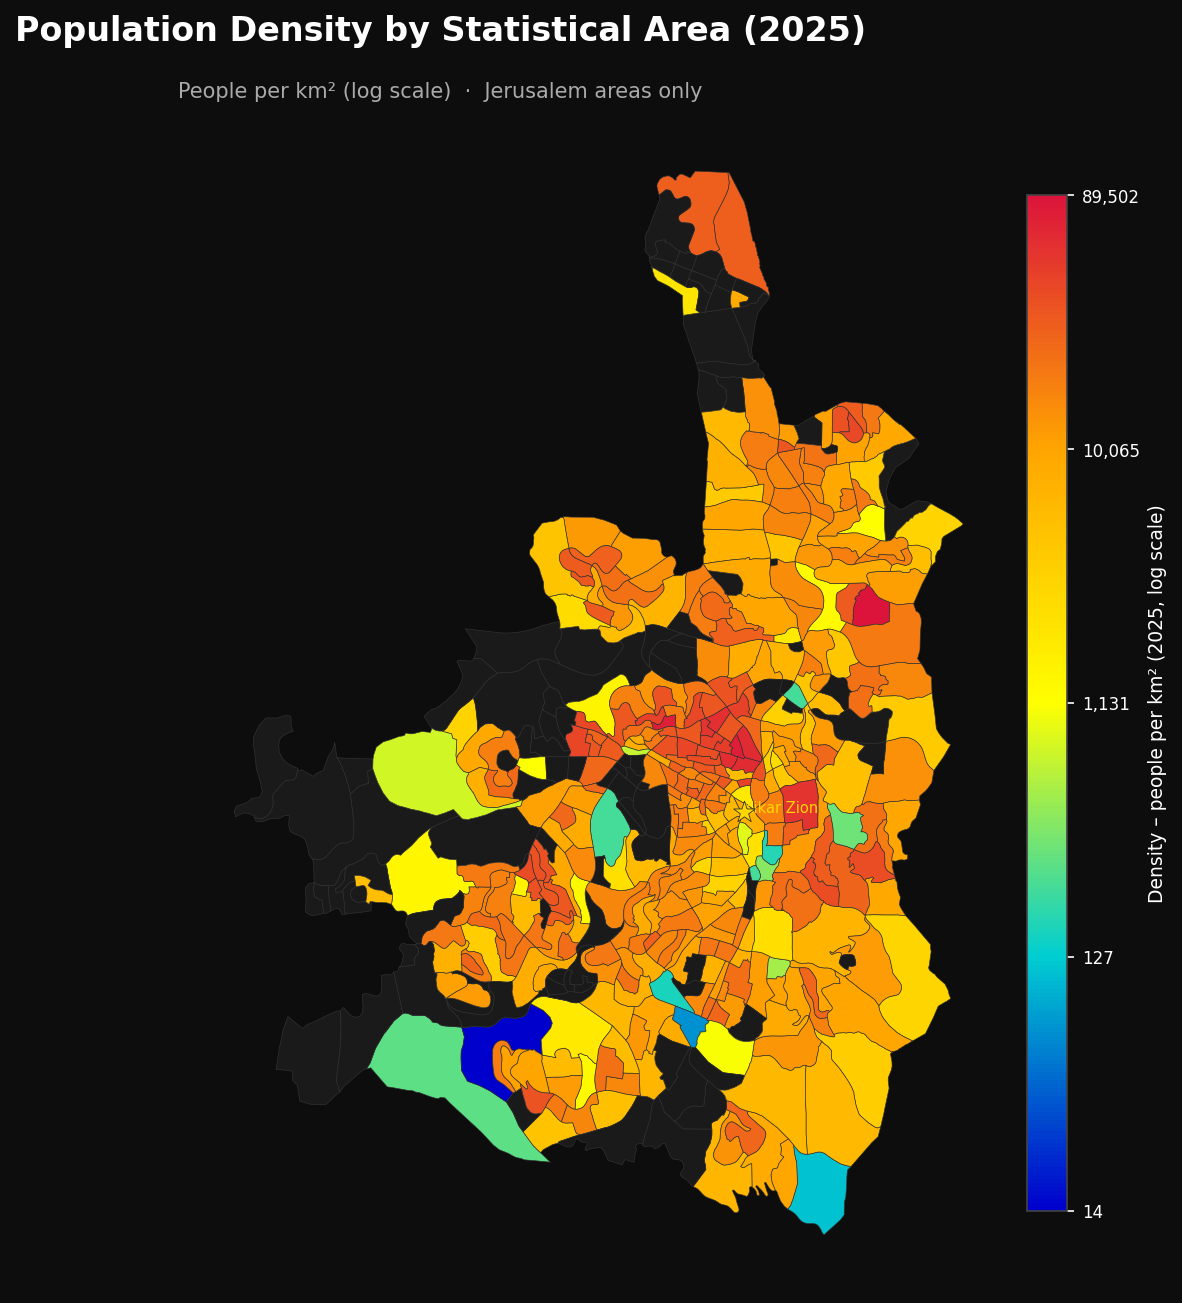
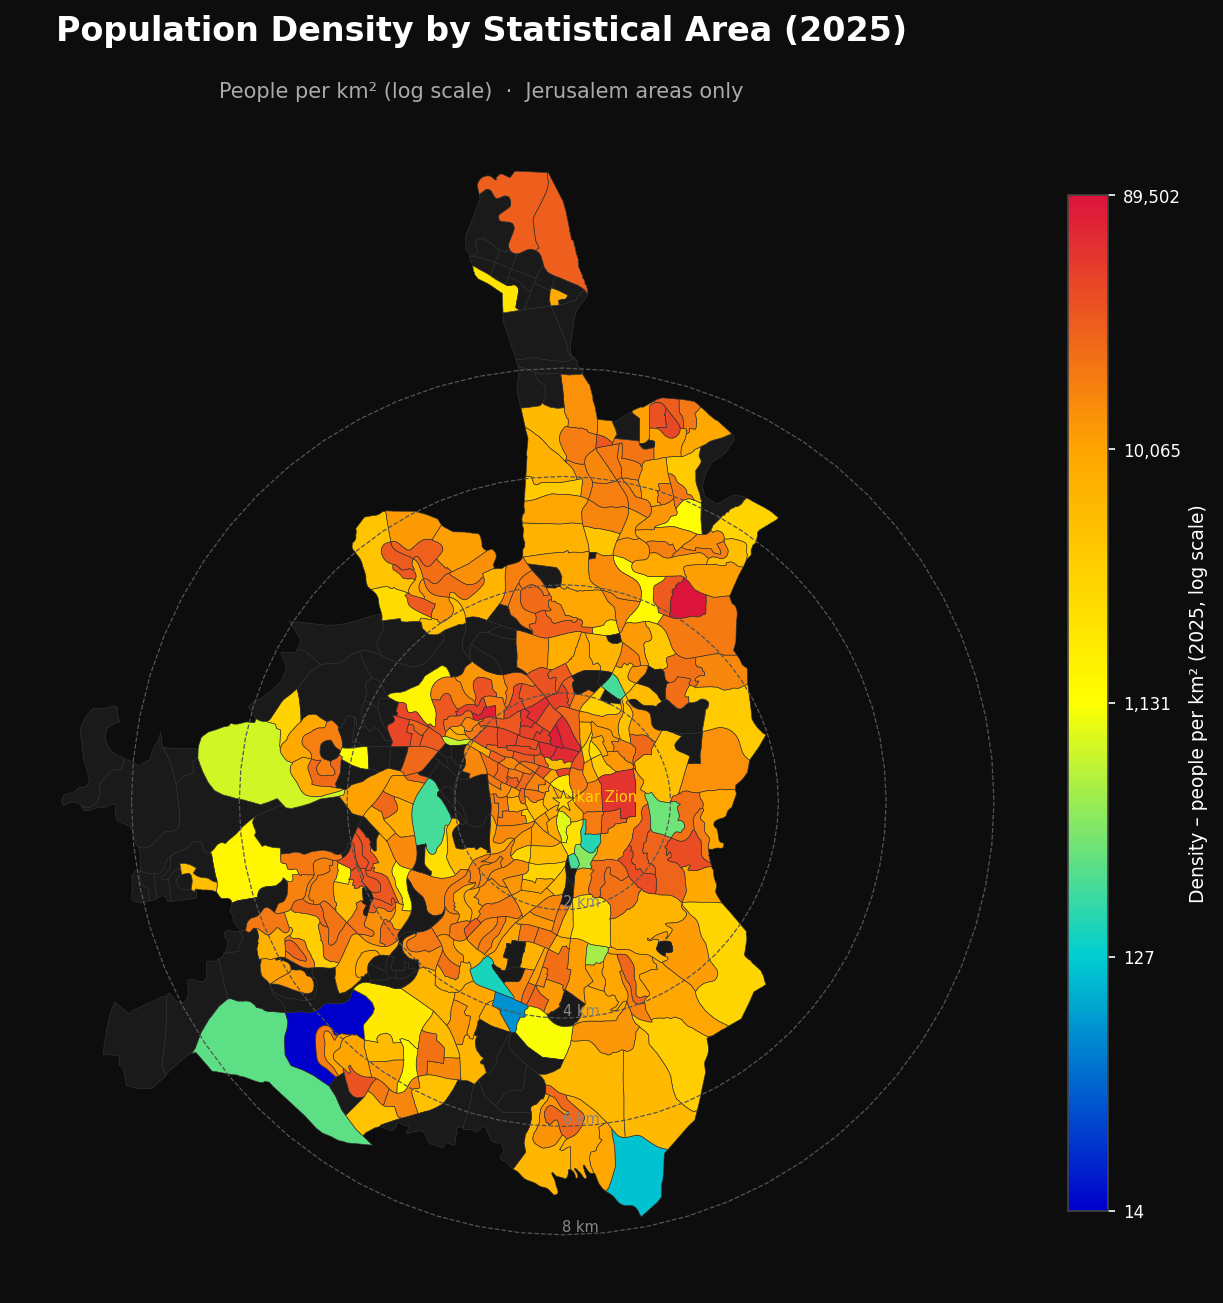
Add distance rings to density map, matching distance map style
Adds the same 2/4/6/8 km dashed reference rings and labels to the
population density choropleth map as already shown on the distance map.

https://claude.ai/code/session_01Wkc3oYCRGuMqTiP78fZipH

diff --git a/population_figure/spatial_maps.py b/population_figure/spatial_maps.py
@@ -147,7 +147,14 @@ colors_ld = np.array([
 areas_wgs.plot(ax=ax2, color=colors_ld, edgecolor=BORDER_COLOR, linewidth=0.3)
 plot_star(ax2, centre_wgs)
 
-# Custom colorbar on log scale
+# Ring circles at 2, 4, 6, 8 km (same as distance map)
+for ring_km in [2, 4, 6, 8]:
+    ring_buf = centre_proj.buffer(ring_km * 1000)
+    ring_gdf = gpd.GeoDataFrame(geometry=[ring_buf], crs=areas.crs).to_crs("EPSG:4326")
+    ring_gdf.boundary.plot(ax=ax2, color="#555555", linewidth=0.6, linestyle="--")
+    ring_pt = ring_gdf.geometry.iloc[0].exterior.interpolate(0.25, normalized=True)
+    ax2.text(ring_pt.x, ring_pt.y, f"{ring_km} km",
+             color="#888888", fontsize=7, ha="left", va="bottom")
 sm2 = cm.ScalarMappable(cmap=SPECTRAL_CMAP, norm=mcolors.Normalize(vmin=vmin_ld, vmax=vmax_ld))
 sm2.set_array([])
 cb2 = fig2.colorbar(sm2, ax=ax2, fraction=0.03, pad=0.02, aspect=25)
